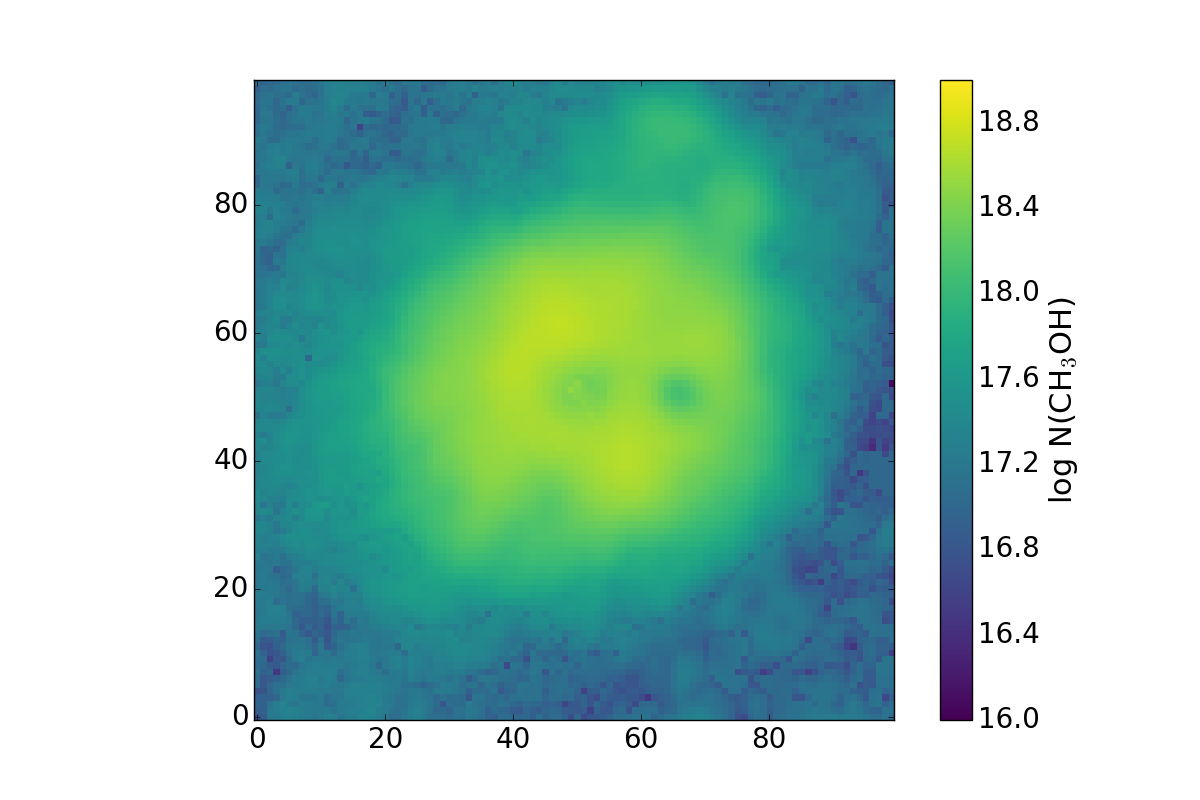
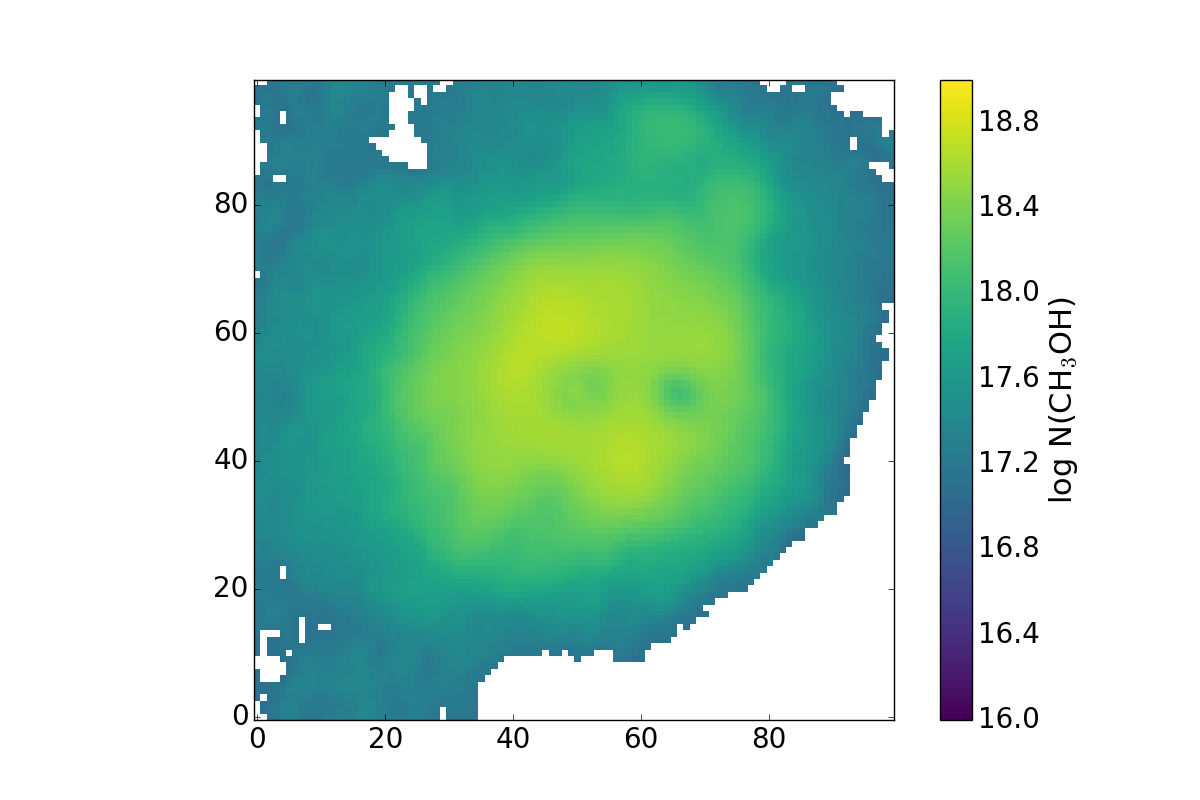
minor updates to figures

diff --git a/analysis/rotational_diagram_maps.py b/analysis/rotational_diagram_maps.py
@@ -181,8 +181,15 @@ def cutout_id_chem_map(yslice=slice(367,467), xslice=slice(114,214),
 #    term6 = 1 if tau is None else tau/(1-np.exp(-tau))
 #    return (term1*term3*term4*term5*term6).to(u.cm**-2)
 
-def nupper_of_kkms(kkms, freq, Aul, degeneracies, Tex=100*u.K):
+def nupper_of_kkms(kkms, freq, Aul, degeneracies, Tex=100*u.K,
+                   replace_bad=None):
     """ Derived directly from pyspeckit eqns..."""
+
+    if replace_bad:
+        neg = kkms <= 0
+        kkms[neg] = replace_bad
+
+
     freq = u.Quantity(freq, u.GHz)
     Aul = u.Quantity(Aul, u.Hz)
     kkms = u.Quantity(kkms, u.K*u.km/u.s)
@@ -206,18 +213,30 @@ def nupper_of_kkms(kkms, freq, Aul, degeneracies, Tex=100*u.K):
 #    return nline.value / degeneracies *u.cm**-2 # because... something wrong.
 #    return nline.value * u.cm**-2
 #
-def fit_tex(eupper, nupperoverg, verbose=False, plot=False):
+def fit_tex(eupper, nupperoverg, verbose=False, plot=False, uplims=None):
     """
     Fit the Boltzmann diagram
     """
     model = modeling.models.Linear1D()
     #fitter = modeling.fitting.LevMarLSQFitter()
     fitter = modeling.fitting.LinearLSQFitter()
-    # ignore negatives
-    good = nupperoverg > 0
-    if good.sum() < len(nupperoverg)/2.:
+
+    nupperoverg_tofit = nupperoverg.copy()
+
+    if uplims is not None:
+        upperlim_mask = nupperoverg < uplims
+        if upperlim_mask.sum() > len(nupperoverg)/2.:
+            # too many upper limits = bad idea to fit.
+            return 0*u.cm**-2, 0*u.K, 0, 0
+        nupperoverg_tofit[upperlim_mask] = uplims[upperlim_mask]
+
+    # always ignore negatives
+    good = nupperoverg_tofit > 0
+    # skip any fits that have fewer than 50% good values
+    if good.sum() < len(nupperoverg_tofit)/2.:
         return 0*u.cm**-2, 0*u.K, 0, 0
-    result = fitter(model, eupper[good], np.log(nupperoverg[good]))
+
+    result = fitter(model, eupper[good], np.log(nupperoverg_tofit[good]))
     tex = -1./result.slope*u.K
 
     partition_func = specmodel.calculate_partitionfunction(ch3oh.data['States'],
@@ -238,6 +257,10 @@ def fit_tex(eupper, nupperoverg, verbose=False, plot=False):
                 result.intercept.value)
         pl.plot(xax, np.log10(np.exp(line)), '-', color=L.get_color(),
                 label='$T={0:0.1f} \log(N)={1:0.1f}$'.format(tex, np.log10(Ntot.value)))
+
+        if uplims:
+            pl.plot(eupper, np.log10(uplims), marker='_', alpha=0.5,
+                    linestyle='none', color='k')
 
     return Ntot, tex, result.slope, result.intercept
 
@@ -343,11 +366,15 @@ def fit_all_tex(xaxis, cube, cubefrequencies, indices, degeneracies,
             tmap[ii,jj] = np.nan
         else:
             if replace_bad:
-                neg = cube[:,ii,jj] <= 0
-                cube[neg,ii,jj] = replace_bad
+                uplims = nupper_of_kkms(replace_bad, cubefrequencies,
+                                        einsteinAij[indices], degeneracies,)
+            else:
+                uplims = None
+
             nuppers = nupper_of_kkms(cube[:,ii,jj], cubefrequencies,
-                                     einsteinAij[indices], degeneracies)
-            fit_result = fit_tex(xaxis, nuppers.value)
+                                     einsteinAij[indices], degeneracies,
+                                    )
+            fit_result = fit_tex(xaxis, nuppers.value, uplims=uplims.value)
             tmap[ii,jj] = fit_result[1].value
             Nmap[ii,jj] = fit_result[0].value
         pb.update(count)
@@ -451,25 +478,26 @@ if __name__ == "__main__":
         pl.subplots_adjust(hspace=0, wspace=0)
         pl.savefig(paths.fpath("chemistry/ch3oh_rotation_diagrams_{0}.png".format(sourcename)))
 
-        tmap,Nmap = fit_all_tex(xaxis, cube, cubefrequencies, indices, degeneracies,
-                                replace_bad=detection_threshold_jykms*approximate_jytok)
+        if True:
+            tmap,Nmap = fit_all_tex(xaxis, cube, cubefrequencies, indices, degeneracies,
+                                    replace_bad=detection_threshold_jykms*approximate_jytok)
 
-        pl.figure(1).clf()
-        pl.imshow(tmap, vmin=0, vmax=600, cmap='hot')
-        cb = pl.colorbar()
-        cb.set_label("Temperature (K)")
-        pl.savefig(paths.fpath("chemistry/ch3oh_temperature_map_{0}.png".format(sourcename)))
-        pl.figure(3).clf()
-        pl.imshow(np.log10(Nmap), vmin=16, vmax=19, cmap='viridis')
-        cb = pl.colorbar()
-        cb.set_label("log N(CH$_3$OH)")
-        pl.savefig(paths.fpath("chemistry/ch3oh_column_map_{0}.png".format(sourcename)))
+            pl.figure(1).clf()
+            pl.imshow(tmap, vmin=0, vmax=600, cmap='hot')
+            cb = pl.colorbar()
+            cb.set_label("Temperature (K)")
+            pl.savefig(paths.fpath("chemistry/ch3oh_temperature_map_{0}.png".format(sourcename)))
+            pl.figure(3).clf()
+            pl.imshow(np.log10(Nmap), vmin=16, vmax=19, cmap='viridis')
+            cb = pl.colorbar()
+            cb.set_label("log N(CH$_3$OH)")
+            pl.savefig(paths.fpath("chemistry/ch3oh_column_map_{0}.png".format(sourcename)))
 
-        hdu = fits.PrimaryHDU(data=tmap, header=header)
-        hdu.writeto(paths.dpath('12m/moments/CH3OH_{0}_cutout_temperaturemap.fits'.format(sourcename)), clobber=True)
+            hdu = fits.PrimaryHDU(data=tmap, header=header)
+            hdu.writeto(paths.dpath('12m/moments/CH3OH_{0}_cutout_temperaturemap.fits'.format(sourcename)), clobber=True)
 
-        hdu = fits.PrimaryHDU(data=Nmap, header=header)
-        hdu.writeto(paths.dpath('12m/moments/CH3OH_{0}_cutout_columnmap.fits'.format(sourcename)), clobber=True)
+            hdu = fits.PrimaryHDU(data=Nmap, header=header)
+            hdu.writeto(paths.dpath('12m/moments/CH3OH_{0}_cutout_columnmap.fits'.format(sourcename)), clobber=True)
 
 
 

diff --git a/plot_code/chem_images.py b/plot_code/chem_images.py
@@ -19,6 +19,8 @@ labeldict = {
                'H2CO321_220':'H$_2$CO $3_{2,1}-2_{2,0}$',
                'H2CO322_221':'H$_2$CO $3_{2,2}-2_{2,1}$',
                'HC3N24-23':'HC$_3$N 24-23',
+               'HC3Nv7=124-23':'HC$_3$Nv$_7$=1 24-23a',
+               #'HC3Nv7=1_24-23':'HC$_3$Nv$_7$=1 24-23b',
                'OCS18-17':'OCS 18-17',
                'OCS19-18':'OCS 19-18',
                'SO65-54':'SO $6_5-5_4$',
@@ -34,23 +36,23 @@ labeldict = {
                'CH3OH1029-936':'CH$_3$OH $10_{2,9}-9_{3,6}$',
                'CH3OH1028-937':'CH$_3$OH $10_{2,8}-9_{3,7}$',
                'CH3OH422-312':'CH$_3$OH $4_{2,2}-3_{1,2}$',
+               'CH3OH18315-17414':'CH$_3$OH $18_{3,15}-17_{4,14}$',
+               'CH3OH25322-24420':'CH$_3$OH $25_{3,22}-24_{4,20}$',
+               'CH3OH23519-22617':'CH$_3$OH $23_{5,19}-22_{6,17}$',
+               #'13CH3OH515-414':'$^{13}$CH$_3$OH $5_{1,5}-4_{1,4}$',
                'CH3OHvt=01028-937++': 'CH$_3$OH $10_{2,8}-9_{3,7}$',
                '13CS5-4':'$^{13}$CS 5-4',
                'NH2CHO11210-1029':'NH$_2$CHO $11_{2,10}-10_{2,9}$',
                'NH2CHO1156-1055': 'NH$_2$CHO $11_{5,6}-10_{5,5}$',
-               'HC3Nv7=124-23':'HC$_3$Nv$_7$=1 24-23a',
                'H30alpha':'H30$\\alpha$',
                'C18O2-1':'C$^{18}$O 2-1',
                'H2CCO11-10':'H$_2$CCO 11-10',
                'HCOOH431-524':'HCOOH $4_{3,1}-5_{2,4}$',
                'CH3CH2CN24321-23320':'CH$_3$CH$_2$CN $24_{3,21}-23_{3,20}$',
-               'HC3Nv7=1_24-23':'HC$_3$Nv$_7$=1 24-23b',
-               'Acetone21120-20219AE':'Acetone $21_{1,20}-20_{2,19}$AE',
-               'Acetone21120-20119EE':'Acetone $21_{1,20}-20_{1,19}$EE',
+               #'Acetone21120-20219AE':'Acetone $21_{1,20}-20_{2,19}$AE',
+               #'Acetone21120-20119EE':'Acetone $21_{1,20}-20_{1,19}$EE',
                'CH3CH2CN24222-23221':'CH$_3$CH$_2$CN $24_{2,22}-23_{2,21}$',
                'H213CO312-211':'H$_2$$^{13}$CO $3_{1,2}-2_{1,1}$',
-               'H2CN303-202_F3_2':'H$_2$CN $3_{0,3}-2{0,2}$ F$_{3/2-3/2}$',
-               'H2CN322-221_F5_2':'H$_2$CN $3_{2,2}-2{2,1}$ F$_{5/2-3/2}$',
                'CH3OCHO17413-16412A':'CH$_3$OCHO $17_{4,13}-16_{4,12}$A',
                'CH3OCHO17314-16313E':'CH$_3$OCHO $17_{3,14}-16_{3,13}$E',
                'CH3OCHO17314-16313A':'CH$_3$OCHO $17_{3,14}-16_{3,13}$A',
@@ -60,30 +62,30 @@ labeldict = {
                'CH3OCH323321-23222EE':'CH$_3$OCH$_3$ $23_{3,21}-23_{2,22}$EE',
                'CH3OCH3_13013-12112':'CH$_3$OCH$_3$ $13_{0,13}-12_{1,12}$',
                'O13CS18-17':'O$^{13}$CS 18-17',
-               'N2D+_3-2': 'N$_2$D+ 3-2',
+               #'N2D+_3-2': 'N$_2$D+ 3-2',
 }
 
 def chem_plot(linere, yslice=slice(367,467), xslice=slice(114,214), vrange=[51,60]*u.km/u.s,
               sourcename='e2', filelist=glob.glob(paths.dpath('12m/cutouts/*e2e8*fits')),
-              suffix="", plotgrid=(5,8),
+              suffix="", plotgrid=(5,8), figsize=(12.8,8),
              ):
     nplots = np.product(plotgrid)
 
     for ii in (1,2):
-        if not all(pl.figure(ii, figsize=(12.8,8)).get_size_inches() == (12.8,8)):
+        if not all(pl.figure(ii, figsize=figsize).get_size_inches() == figsize):
             pl.close(ii)
 
-    fig1 = pl.figure(1, figsize=(12.8,8))
+    fig1 = pl.figure(1, figsize=figsize)
     fig1.clf()
     gs1 = gridspec.GridSpec(*plotgrid)
     gs1.update(wspace=0.0, hspace=0.0)
 
-    fig2 = pl.figure(2, figsize=(12.8,8))
+    fig2 = pl.figure(2, figsize=figsize)
     fig2.clf()
     gs2 = gridspec.GridSpec(*plotgrid)
     gs2.update(wspace=0.0, hspace=0.0)
 
-    fig3 = pl.figure(3, figsize=(12.8,8))
+    fig3 = pl.figure(3, figsize=figsize)
     fig3.clf()
     gs3 = gridspec.GridSpec(*plotgrid)
     gs3.update(wspace=0.0, hspace=0.0)
@@ -156,7 +158,7 @@ def chem_plot(linere, yslice=slice(367,467), xslice=slice(114,214), vrange=[51,6
 
         im1 = ax1.imshow(m0.value, vmin=-1.25*jtok.value, vmax=5.0*jtok.value,
                          cmap=pl.cm.bone_r, interpolation='nearest')
-        ax1.text(3, 0.87*m0.shape[0], label, fontsize=10)
+        ax1.text(3, 0.87*m0.shape[0], label, fontsize=9)
         ax1.set_xticklabels([])
         ax1.set_yticklabels([])
         ax1.set_aspect('equal')
@@ -165,7 +167,7 @@ def chem_plot(linere, yslice=slice(367,467), xslice=slice(114,214), vrange=[51,6
 
         im2 = ax2.imshow(m1.value, vmin=vrange[0].value, vmax=vrange[1].value,
                          cmap=pl.cm.viridis, interpolation='nearest')
-        ax2.text(3, 0.87*m0.shape[0], label, fontsize=10, color='w')
+        ax2.text(3, 0.87*m0.shape[0], label, fontsize=9, color='w')
         ax2.set_xticklabels([])
         ax2.set_yticklabels([])
         ax2.set_aspect('equal')
@@ -174,7 +176,7 @@ def chem_plot(linere, yslice=slice(367,467), xslice=slice(114,214), vrange=[51,6
 
         im3 = ax3.imshow(max.value, vmin=-10, vmax=150,
                          cmap=pl.cm.bone_r, interpolation='nearest')
-        ax3.text(3, 0.87*m0.shape[0], label, fontsize=10, color='r')
+        ax3.text(3, 0.87*m0.shape[0], label, fontsize=9, color='r')
         ax3.set_xticklabels([])
         ax3.set_yticklabels([])
         ax3.set_aspect('equal')

diff --git a/cores_and_outflows/cores_and_outflows.tex b/cores_and_outflows/cores_and_outflows.tex
@@ -8,9 +8,9 @@ preliminary analysis that will make it in to one or more papers.
 
 Data summary: the 7m and 12m data have all been delivered, but the UV coverage
 is non-optimal.  Importantly and unfortunately, no single-dish (total power)
-data were ever acquired.  I have requested APEX observations using the new
-PI230 instrument to recover the spectral line zero spacings, but that data may
-not be received for quite some time.  The original proposed project connecting
+data were ever acquired.  I have been granted APEX time using the new
+PI230 instrument to recover the spectral line zero spacings, and that data is likely
+to be acquired in October or December.  The original proposed project connecting
 cloud scales to core scales will not be possible until the single dish data are
 acquired.
 
@@ -466,7 +466,7 @@ impossible for any point to be below the line.
 {fig:peaktb}{1}{10cm}
 
 \subsubsection{W51e2e Mass and Temperature Estimates}
-W51e2e
+\label{sec:W51e2e}
 
 In a $0.21\arcsec\times0.19\arcsec$ beam ($1100\times1000$ au), the peak flux
 density is 0.38 Jy, which corresponds to a brightness temperature $T=228$ K.
@@ -483,6 +483,10 @@ strict limit in either direction: if the dust is optically thick, there may be
 substantial hidden or undetected gas, while if the filling factor is low, it
 may be much hotter and therefore lower in mass.
 
+In the broader region surrounding W51e2e, out to a radius $\sim8000$ au,
+the total mass is $M\approx1400 (T / 100 \mathrm{K})^{-1}$.  The mass
+heated by e2e is therefore enormous, constituting an entire star cluster's
+worth of material.
 
 \subsection{The most massive protostellar cores in W51}
 In Figure \ref{fig:hmradprof}, we show the radial profiles extracted from the
@@ -500,6 +504,8 @@ all at 600 K, the mass would be $\sim17\times$ lower, 100 \msun, which we treat
 as a strict lower bound as it is unlikely that the dust more than $\gtrsim1000$
 au is so warm.  Additionally, it is very likely that a substantial mass of cold
 dust is also present but undetectable because it is hidden by the hotter dust.
+\todo{This paragraph is somewhat redundant with Section \ref{sec:W51e2e}, but
+still useful.  Perhaps blend these?}
 
 \Figure{figures/cumulative_radial_flux_massivecores.png}
 {The cumulative flux density radial profiles centered on three
@@ -555,6 +561,10 @@ using the simulations.}
 \subsection{Chemically Distinct Regions}
 \label{sec:chemistrymaps}
 The ``hot cores'' in W51 are resolved and multi-layered.
+
+\todo{Discuss with Victor \& Alvaro: Can the moderate-mass cores be
+chemically distinguished from the high-mass?  Do we know their masses well enough
+now to do this?}
 
 Surrounding W51e2e, we noted the presence of sharp-edged uniform-brightness
 regions in a few spectral lines over the range 51-60 \kms (Figure
@@ -648,7 +658,14 @@ because it is clearly optically thick (self-absorbed) in the regions of
 greatest interest.
 
 We produce rotational diagrams for each spatial pixel covering all \methanol lines
-detected at high significance toward at least one position.
+detected at high significance toward at least one position.  The detected lines
+span a range $45 < E_U < 800$ K, allowing robust measurements of the temperature
+assuming the lines are optically thin, in LTE, and the gas temperature is high
+enough to excite the lines.  These conditions are likely to be satisfied in the
+e2e, e8, and North cores, except for the optically thin requirement.  Luckily,
+there are some lines in band that have much lower Einstein $A_{i,j}$ values
+but comparable upper-state energy levels, allowing us to probe higher column
+densities than would otherwise be possible.
 
 \FigureTwo{figures/ch3oh_temperature_map_e2.png}{figures/ch3oh_column_map_e2.png}
 {Methanol temperature and column density maps around e2.  The temperature goes
@@ -663,7 +680,7 @@ derived and shown in Figure \ref{fig:ch3ohe2}.  The lower-left corner shows
 the position from which the data were extracted in that figure in units of
 figure fraction.  The horizontal black lines show the detection threshold of each
 of the transitions; points below these lines are ignored when fitting, and instead
-the threshold itself is used \todo{CONFIRM / DO THIS}.  The fitted temperature and
+the threshold itself is used.  The fitted temperature and
 column are shown in the top right of each plot.
 }{fig:ch3ohe2rot}{1}{18cm}
  
@@ -798,6 +815,13 @@ feedback.  A low area filling factor implies a substantially smaller volume
 filling factor and therefore a lower overall effect on the cloud.  However,
 these outflows likely do punch holes through protostellar envelopes and the
 surrounding cloud material, allowing radiation to escape.
+
+The detection of widespread high-J \methanol emission around the highest-mass
+protostars suggests that the use of \methanol as a bulk outflow tracer as
+suggested by \citet{Kristensen2015a} is not viable.  While mid-J \methanol
+emission is detected associated with the outflow (e.g., the J=10-9 transition),
+it is completely dominated by the general `extended hot core' emission
+described in Section \ref{sec:chemistrymaps}.
 
 \subsection{Non-ionizing Radiation}
 \label{sec:nonionizingradiation}

diff --git a/analysis/line_to_image_list.py b/analysis/line_to_image_list.py
@@ -40,8 +40,6 @@ line_to_image_list = [
     ('Acetone21120-20119EE','219.24214GHz',1.2, 1),
     ('CH3CH2CN24222-23221','219.50559GHz',1.2, 1),
     ('H213CO312-211','219.90849GHz',1.2, 1),
-    ('H2CN303-202_F3_2','219.98449GHz',1.2, 1),
-    ('H2CN322-221_F5_2','219.99422GHz',1.2, 1),
     ('CH3CH2OH550-541','231.02517GHz',1.2, 2),
     ('O13CS18-17','218.19898GHz',0.5, 0),
     ('CH3OCH323321-23222AA','218.49441GHz',0.5, 0),
